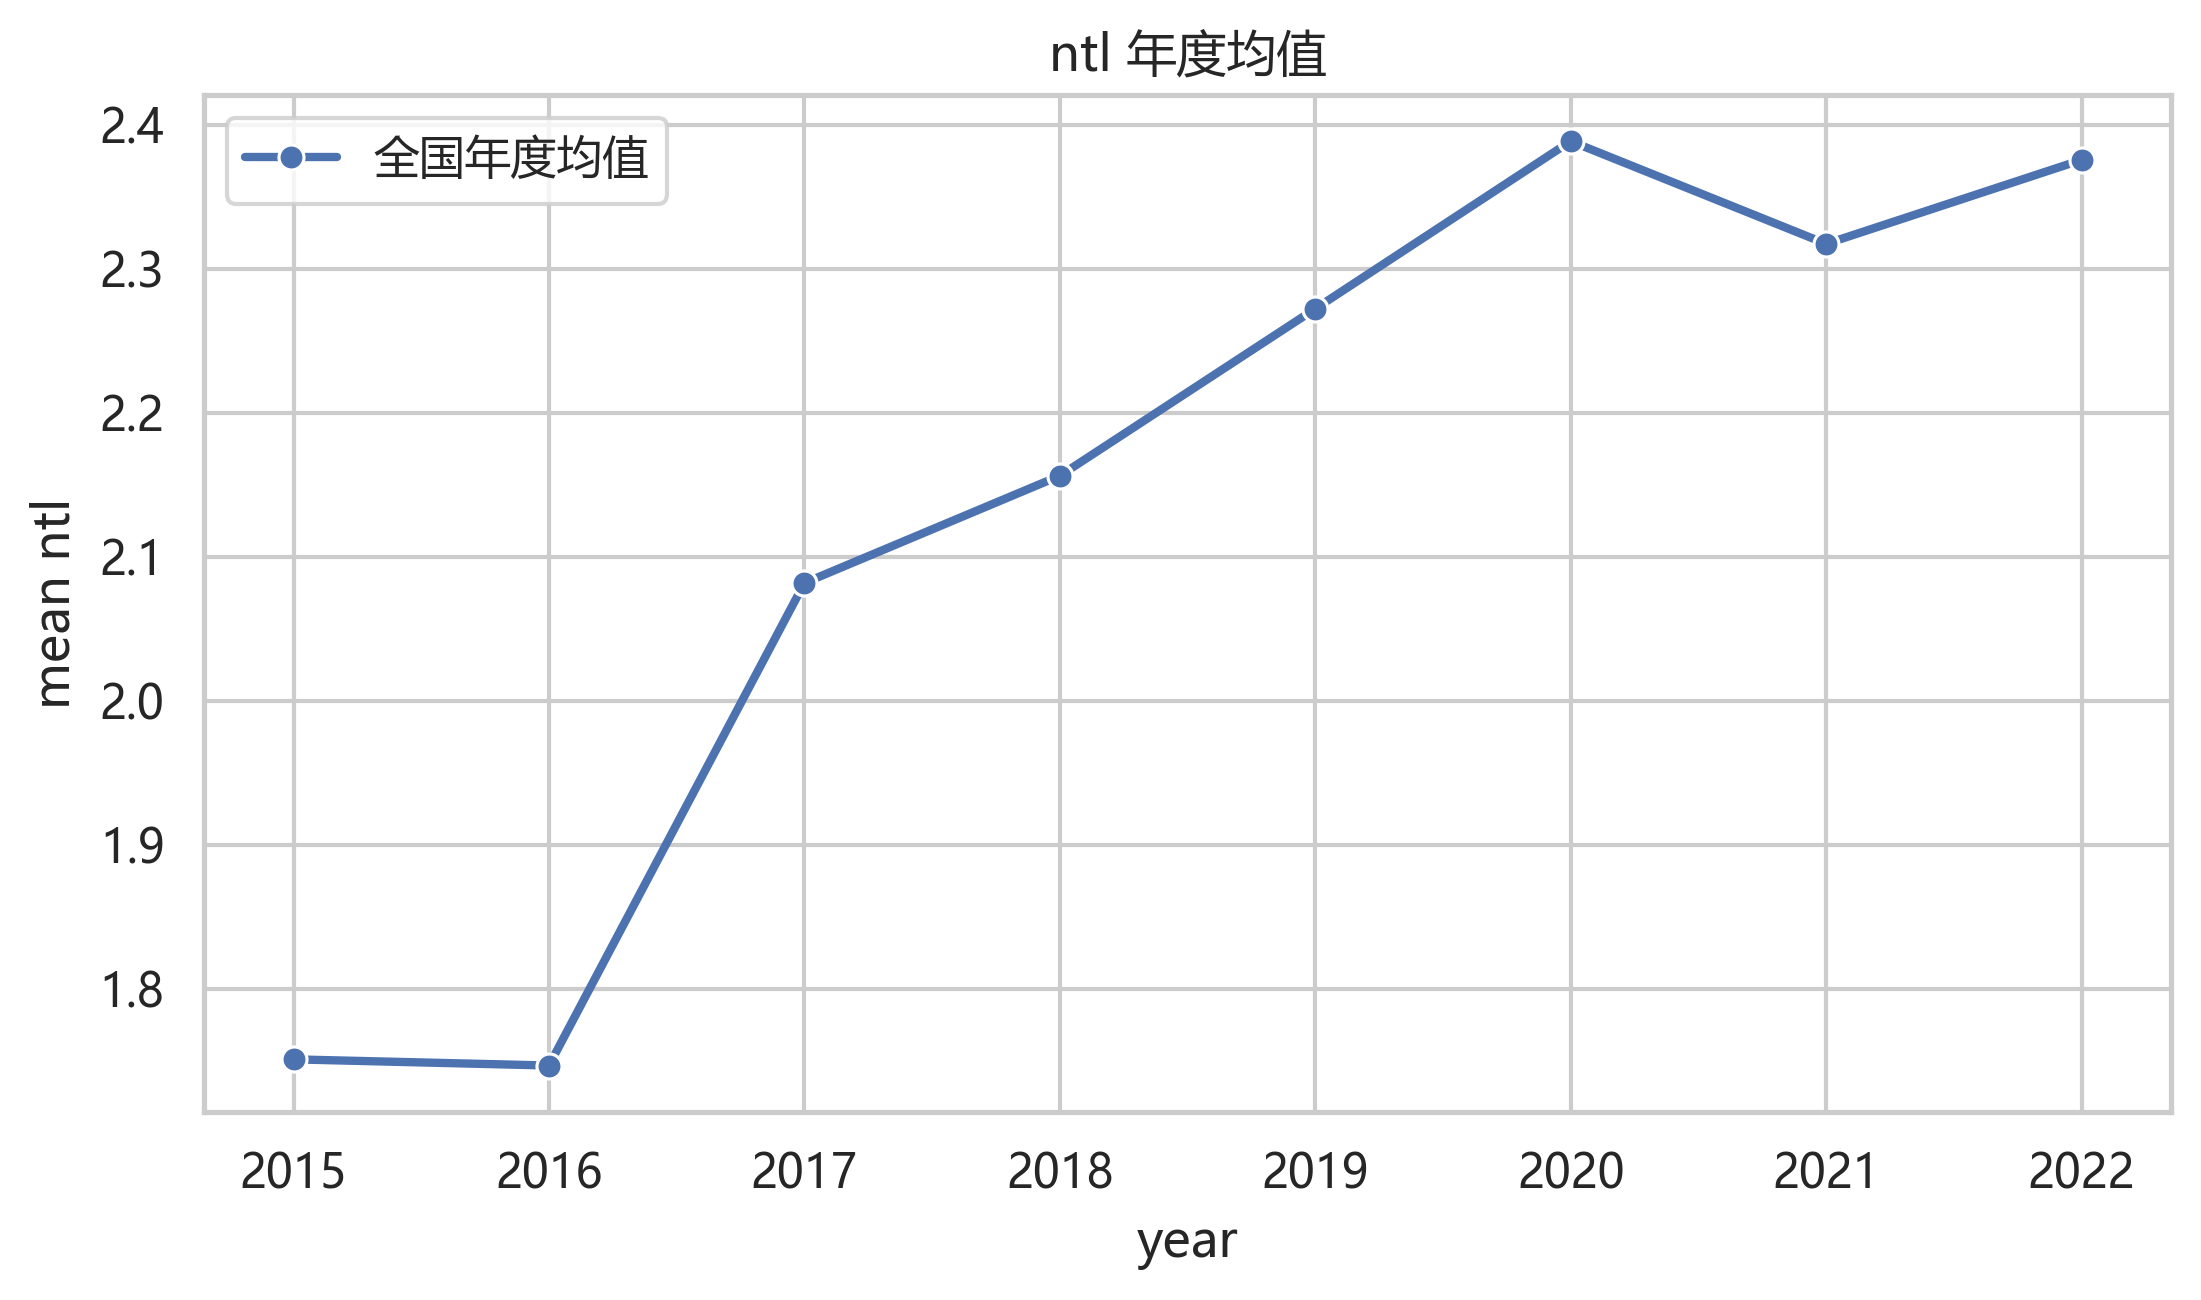
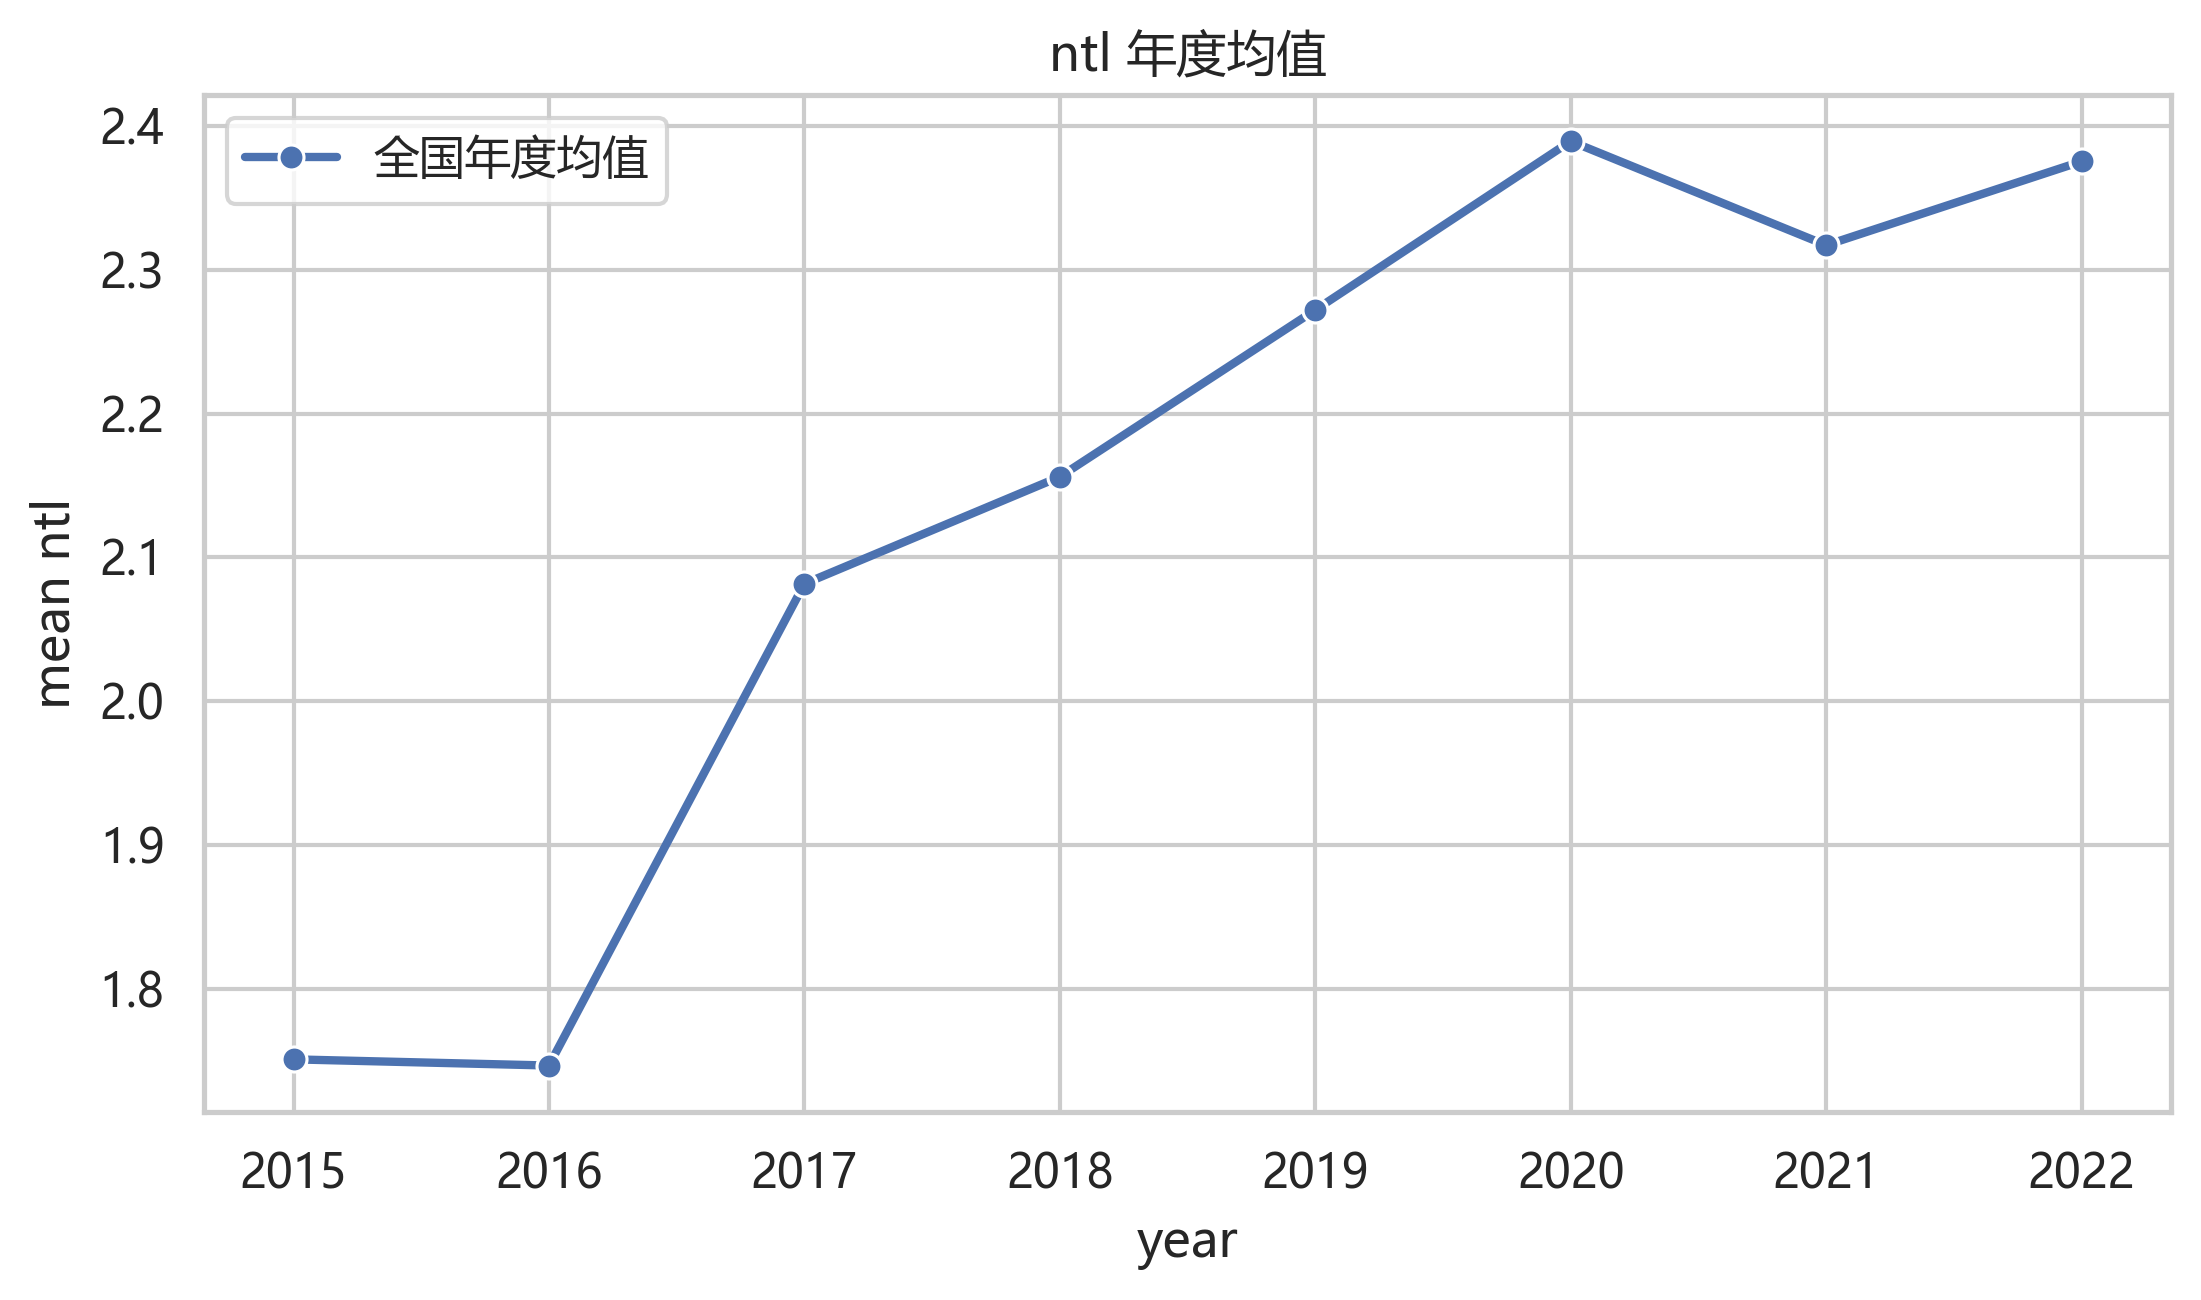
code/数据处理/完成

Changed region(s): [[0.896, 0.1231, 0.9269, 0.1538], [0.6179, 0.1846, 0.6488, 0.2154]]

diff --git a/code/数据处理/20_夜间灯光指标检查.py b/code/数据处理/20_夜间灯光指标检查.py
@@ -12,13 +12,14 @@ from matplotlib.collections import PatchCollection
 from matplotlib.patches import Polygon, FancyArrowPatch, Rectangle
 from matplotlib.lines import Line2D
 
-BASE_DIR = Path(__file__).resolve().parent
-DATA_PATH = BASE_DIR / "prcd" / "process2.csv"
-OUTPUT_DIR = BASE_DIR / "prcd" / "ntl_check"
+PROJECT_ROOT = Path(__file__).resolve().parents[2]
+DATA_PATH = PROJECT_ROOT / "data" / "最终数据" / "第二阶段_基础.csv"
+OUTPUT_DIR = PROJECT_ROOT / "outputs" / "数据处理" / "20_夜间灯光指标检查"
 MAP_PATHS = [
-    BASE_DIR / "data" / "china_provinces.geojson",
-    BASE_DIR / "data" / "china.geojson",
-    BASE_DIR / "data" / "中国省级.geojson",
+    PROJECT_ROOT / "data" / "外部资料" / "中国省级地图.geojson",
+    PROJECT_ROOT / "data" / "china_provinces.geojson",
+    PROJECT_ROOT / "data" / "china.geojson",
+    PROJECT_ROOT / "data" / "中国省级.geojson",
 ]
 MAP_YEAR = 2022
 
@@ -119,7 +120,7 @@ def save_distribution_plot(df):
                             "Oranges", "#C65D00", force_xlim_left=0)
     fig.suptitle("夜间灯光指标分布检验", fontsize=14)
     fig.tight_layout()
-    fig.savefig(OUTPUT_DIR / "01_distribution.png", dpi=300, bbox_inches="tight")
+    fig.savefig(OUTPUT_DIR / "01_指标分布图.png", dpi=300, bbox_inches="tight")
     plt.close(fig)
 
 
@@ -134,7 +135,7 @@ def save_time_series_plots(df):
                  marker="o", linewidth=2, label="全国年度均值", ax=ax)
     ax.set_title("ntl 年度均值"); ax.set_xlabel("year"); ax.set_ylabel("mean ntl")
     ax.legend(); fig.tight_layout()
-    fig.savefig(OUTPUT_DIR / "02_year_mean.png", dpi=300, bbox_inches="tight")
+    fig.savefig(OUTPUT_DIR / "02_年度均值图.png", dpi=300, bbox_inches="tight")
     plt.close(fig)
 
     fig, ax = plt.subplots(figsize=(12, 6.5))
@@ -146,7 +147,7 @@ def save_time_series_plots(df):
         ax.legend(handles=h, labels=l, title="province",
                   bbox_to_anchor=(1.02, 1), loc="upper left", fontsize=8, title_fontsize=9)
     fig.tight_layout()
-    fig.savefig(OUTPUT_DIR / "03_province_trend.png", dpi=300, bbox_inches="tight")
+    fig.savefig(OUTPUT_DIR / "03_各省变化趋势图.png", dpi=300, bbox_inches="tight")
     plt.close(fig)
 
 
@@ -175,7 +176,7 @@ def save_spatial_proxy_plot(df):
     ax.set_title("各省 ntl / lntl 均值排序")
     ax.set_xlabel("value"); ax.set_ylabel("province"); ax.legend()
     fig.tight_layout()
-    fig.savefig(OUTPUT_DIR / "04_province_mean_rank.png", dpi=300, bbox_inches="tight")
+    fig.savefig(OUTPUT_DIR / "04_各省均值排序图.png", dpi=300, bbox_inches="tight")
     plt.close(fig)
 
 
@@ -403,10 +404,10 @@ def save_lntl_map(df):
                 "夜间灯光聚合度对数", ha="center", va="top",
                 fontsize=8, fontweight="bold")
 
-    fig.savefig(OUTPUT_DIR / f"05_lntl_map_{MAP_YEAR}.png",
+    fig.savefig(OUTPUT_DIR / f"05_夜间灯光对数分级地图_{MAP_YEAR}.png",
                 dpi=300, bbox_inches="tight")
     plt.close(fig)
-    return f"已生成省级地图: {OUTPUT_DIR / f'05_lntl_map_{MAP_YEAR}.png'}"
+    return f"已生成省级地图: {OUTPUT_DIR / f'05_夜间灯光对数分级地图_{MAP_YEAR}.png'}"
 
 
 # ═══════════════════════════════════════════════════════════════
@@ -461,22 +462,22 @@ def main():
     configure_style()
     df = load_data()
     df[["year", "province", "ntl"]].to_csv(
-        OUTPUT_DIR / "ntl.csv", index=False, encoding="utf-8-sig")
+        OUTPUT_DIR / "夜间灯光检查数据.csv", index=False, encoding="utf-8-sig")
     save_distribution_plot(df)
     save_time_series_plots(df)
     save_spatial_proxy_plot(df)
     map_message = save_lntl_map(df)
     summary_text = build_summary(df, map_message)
-    (OUTPUT_DIR / "summary.md").write_text(summary_text, encoding="utf-8")
+    (OUTPUT_DIR / "夜间灯光检查总结.md").write_text(summary_text, encoding="utf-8")
     print(f"已生成输出目录: {OUTPUT_DIR}")
-    print(f"已导出 ntl 数据: {OUTPUT_DIR / 'ntl.csv'}")
+    print(f"已导出 ntl 数据: {OUTPUT_DIR / '夜间灯光检查数据.csv'}")
     print("已生成图形:")
-    print(f"- {OUTPUT_DIR / '01_distribution.png'}")
-    print(f"- {OUTPUT_DIR / '02_year_mean.png'}")
-    print(f"- {OUTPUT_DIR / '03_province_trend.png'}")
-    print(f"- {OUTPUT_DIR / '04_province_mean_rank.png'}")
+    print(f"- {OUTPUT_DIR / '01_指标分布图.png'}")
+    print(f"- {OUTPUT_DIR / '02_年度均值图.png'}")
+    print(f"- {OUTPUT_DIR / '03_各省变化趋势图.png'}")
+    print(f"- {OUTPUT_DIR / '04_各省均值排序图.png'}")
     print(f"- {map_message}")
-    print(f"已生成摘要: {OUTPUT_DIR / 'summary.md'}")
+    print(f"已生成摘要: {OUTPUT_DIR / '夜间灯光检查总结.md'}")
 
 
 if __name__ == "__main__":

diff --git a/code/数据处理/10_构建省级能源总量与折标系数.py b/code/数据处理/10_构建省级能源总量与折标系数.py
@@ -10,10 +10,10 @@ from openpyxl import load_workbook
 
 STANDARD_COAL_MJ_PER_KG = 29.3076
 
-ROOT = Path(__file__).resolve().parent
-CEADS_DIR = ROOT / "data" / "各省能源清单CEADs"
-FACTOR_OUTPUT = ROOT / "data" / "ceads_standard_coal_factors.csv"
-PANEL_OUTPUT = ROOT / "data" / "ceads_energy_total_es_2015_2022.csv"
+PROJECT_ROOT = Path(__file__).resolve().parents[2]
+CEADS_DIR = PROJECT_ROOT / "data" / "原始数据" / "各省能源清单CEADS"
+FACTOR_OUTPUT = PROJECT_ROOT / "data" / "外部资料" / "省级能源折标准煤系数_ceads.csv"
+PANEL_OUTPUT = PROJECT_ROOT / "data" / "中间数据" / "省级能源energy与es_ceads(暂未启用).csv"
 
 
 PROVINCE_MAP = {
@@ -362,9 +362,11 @@ def build_panel_table(factor_df: pd.DataFrame) -> pd.DataFrame:
 
 def main() -> None:
     factor_df = build_factor_table()
+    FACTOR_OUTPUT.parent.mkdir(parents=True, exist_ok=True)
     factor_df.to_csv(FACTOR_OUTPUT, index=False, encoding="utf-8-sig")
 
     panel_df = build_panel_table(factor_df)
+    PANEL_OUTPUT.parent.mkdir(parents=True, exist_ok=True)
     panel_df.to_csv(PANEL_OUTPUT, index=False, encoding="utf-8-sig")
 
     print(f"Wrote {FACTOR_OUTPUT}")

diff --git a/code/数据处理/50_样本构建流程缺失检查与变量箱线图.py b/code/数据处理/50_样本构建流程缺失检查与变量箱线图.py
@@ -11,8 +11,8 @@ import pandas as pd
 import seaborn as sns
 
 
-ROOT = Path(__file__).resolve().parents[1]
-OUT_DIR = ROOT / "prcd" / "chapter4_figures"
+ROOT = Path(__file__).resolve().parents[2]
+OUT_DIR = ROOT / "outputs" / "数据处理" / "50_样本构建流程缺失检查与变量箱线图"
 OUT_DIR.mkdir(parents=True, exist_ok=True)
 
 
@@ -266,8 +266,8 @@ def create_missing_heatmap() -> None:
 
 
 def create_boxplots() -> None:
-    df1 = pd.read_csv(ROOT / "prcd" / "process1.csv")
-    df2 = pd.read_csv(ROOT / "prcd" / "process2.csv")
+    df1 = pd.read_csv(ROOT / "data" / "最终数据" / "第一阶段_基础.csv")
+    df2 = pd.read_csv(ROOT / "data" / "最终数据" / "第二阶段_基础.csv")
 
     items = [
         ("Population", df1["Population"], "#4C78A8", "第一阶段"),

diff --git a/archive/旧版文件/手动剔除老数据/40_读取排放比例_能源结构近似.py b/archive/旧版文件/手动剔除老数据/40_读取排放比例_能源结构近似.py
@@ -60,12 +60,12 @@ def parse_args() -> argparse.Namespace:
     )
     parser.add_argument(
         "--input-dir",
-        default=r"data\2015-2022各省排放清单(2)",
-        help="排放清单所在目录，默认读取 data\\2015-2022各省排放清单(2)",
+        default=r"data\原始数据\2015_2022各省排放清单",
+        help="排放清单所在目录，默认读取 data\\原始数据\\2015_2022各省排放清单",
     )
     parser.add_argument(
         "--output",
-        default=r"data\排放比例_es近似.csv",
+        default=r"data\中间数据\排放比例_能源结构近似.csv",
         help="输出文件名，支持 .csv 或 .xlsx",
     )
     return parser.parse_args()

diff --git a/code/数据处理/30_投入产出关系预检.py b/code/数据处理/30_投入产出关系预检.py
@@ -6,9 +6,9 @@ import pandas as pd
 import seaborn as sns
 
 
-BASE_DIR = Path(__file__).resolve().parent
-DATA_PATH = BASE_DIR / "prcd" / "process1.csv"
-OUTPUT_DIR = BASE_DIR / "prcd" / "stage1_pre"
+PROJECT_ROOT = Path(__file__).resolve().parents[2]
+DATA_PATH = PROJECT_ROOT / "data" / "最终数据" / "第一阶段_基础.csv"
+OUTPUT_DIR = PROJECT_ROOT / "outputs" / "数据处理" / "30_投入产出关系预检"
 OUTPUT_PATH = OUTPUT_DIR / "09_投入产出关系散点图.png"
 
 INPUT_COLUMNS = ["Population", "Capital", "energy_total"]

diff --git a/docs/约定/项目文件新旧路径对照表.md b/docs/约定/项目文件新旧路径对照表.md
@@ -15,7 +15,7 @@
 | 6-fin.txt                                                                                                | docs/对话记录/70_对话记录_最终整理.txt                                                                                    |
 | 灯光聚合度讨论整理.md                                                                                             | docs/分析报告/灯光聚合度讨论整理.md                                                                                        |
 | 灯光聚合度讨论整理.pdf                                                                                            | docs/分析报告/灯光聚合度讨论整理.pdf                                                                                       |
-| 读取排放比例.py                                                                                                | code/数据处理/40_读取排放比例.py                                                                                        |
+| 读取排放比例.py                                                                                                | archive/旧版文件/手动剔除老数据/40_读取排放比例_能源结构近似.py                                                           |
 | 解释1.md                                                                                                   | docs/概念解释/面板回归模型补充说明.md                                                                                       |
 | 密度图_分级地图.md                                                                                              | docs/概念解释/密度图与分级地图说明.md                                                                                       |
 | 名词对照.xlsx                                                                                                | docs/概念解释/名词对照.xlsx                                                                                           |

diff --git a/outputs/数据处理/20_夜间灯光指标检查/夜间灯光检查总结.md b/outputs/数据处理/20_夜间灯光指标检查/夜间灯光检查总结.md
@@ -13,7 +13,7 @@
 - 2017: 2.0817
 - 2018: 2.1562
 - 2019: 2.2721
-- 2020: 2.3885
+- 2020: 2.3895
 - 2021: 2.3172
 - 2022: 2.3755
 
@@ -40,7 +40,7 @@
 - 甘肃 2017: ntl=0.5617, pct_change=47.55%
 
 ## 5. 省均值前 10 名
-- 上海: 16.0176
+- 上海: 16.0215
 - 天津: 6.2358
 - 北京: 5.0377
 - 广东: 4.7228
@@ -57,4 +57,4 @@
 - 图4蓝色实心柱是 `ntl`，橙色实心柱是 `lntl`，从上往下逐渐变浅。
 
 ## 7. 地图输出
-- 已生成省级地图: C:\Users\abc0x7f\Desktop\PRO\统计建模\prcd\ntl_check\05_lntl_map_2022.png
+- 已生成省级地图: C:\Users\abc0x7f\Desktop\PRO\统计建模\outputs\数据处理\20_夜间灯光指标检查\05_夜间灯光对数分级地图_2022.png

diff --git a/docs/约定/中文目录改.md b/docs/约定/中文目录改.md
@@ -114,6 +114,7 @@ project/
 - 统一字段名
 - 统一省份名、年份格式
 - 构建基础面板
+- 正式主线中不再保留以排放比例近似 `es` 的代理脚本
 - 规则：`code/数据处理/` 下的 `x.py`，内容输出到 `outputs/数据处理/x/` 下
 
 ### `效率测算/`
